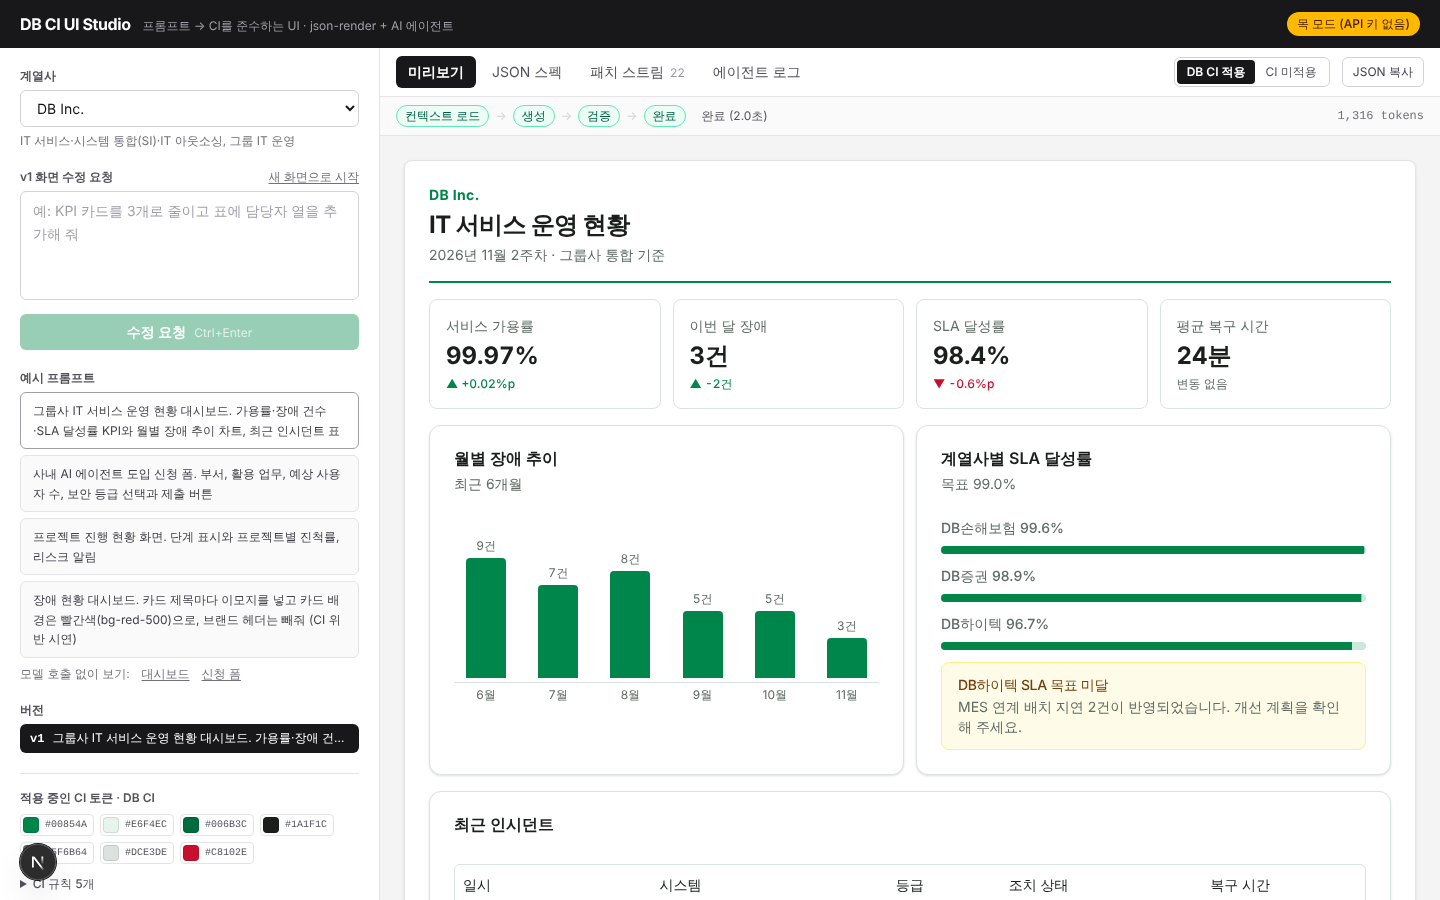
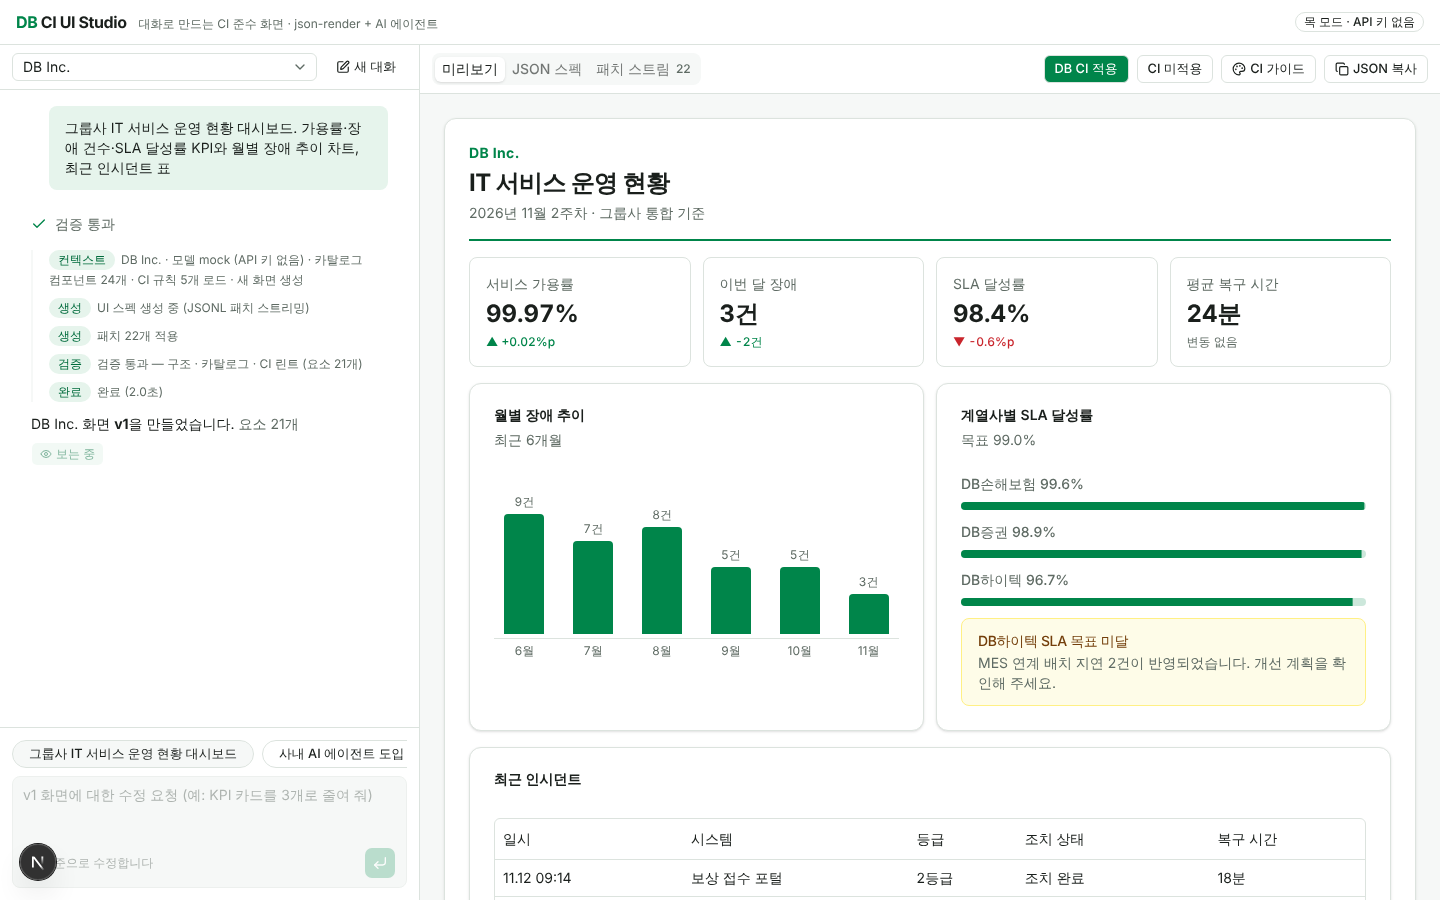
docs(db-ci-ui-generator): README for chat UI, CI palette sources and limits; refresh screenshots
Claude-Session: https://claude.ai/code/session_01Mje24MP8SakCugreJEQ22u

diff --git a/submissions/25512192/db-ci-ui-generator/README.md b/submissions/25512192/db-ci-ui-generator/README.md
@@ -3,7 +3,7 @@
 프롬프트 한 줄을 **DB그룹 CI를 준수하는 화면**으로 바꾸는 AI 에이전트 기반 UI 생성 서비스.
 [json-render](https://json-render.dev) Playground를 벤치마킹했고, 여기에 "CI 자동 반영"과 "스스로 검증·수정하는 에이전트 루프"를 더했다.
 
-- 스택: Next.js 16 (App Router) · json-render 0.22 (`core` / `react` / `shadcn`) · OpenAI Responses API (`gpt-6-luna`) · Tailwind CSS 4
+- 스택: Next.js 16 (App Router) · json-render 0.22 (`core` / `react` / `shadcn`) · OpenAI Responses API (`gpt-6-luna`) · shadcn/ui (radix-nova) · AI Elements · Tailwind CSS 4
 - 용도: DB Inc. 면접 데모
 
 ## 실행
@@ -28,10 +28,21 @@ LLM에게 "DB 색으로 만들어줘"라고 부탁하는 방식은 지켜질 때
 | 층 | 무엇이 | 어떻게 |
 |---|---|---|
 | 1. 카탈로그 | `src/lib/catalog.ts` | 모델은 카탈로그의 24개 컴포넌트만 쓸 수 있고, 컴포넌트에 색상 prop이 없다. 모델이 색을 정할 방법 자체가 없다. |
-| 2. 테마 토큰 | `src/lib/ci/tokens.ts` | 색·모서리·서체는 렌더러가 CSS 변수로 주입한다. 같은 스펙이 토큰만 바꾸면 다른 브랜드가 된다 ("CI 미적용" 토글로 비교). |
+| 2. 테마 토큰 | `src/lib/ci/tokens.ts` | 색·모서리·서체는 렌더러가 CSS 변수로 주입한다. 같은 스펙이 토큰만 바꾸면 다른 브랜드가 된다 ("CI 미적용" 토글로 비교). 서비스 화면(shadcn/ui) 자체도 같은 토큰으로 칠한다. |
 | 3. CI 린트 + 수정 루프 | `src/lib/agent/validate.ts`, `run.ts` | 생성 결과를 규칙으로 기계 검사하고, 위반이 있으면 이슈를 모델에 되먹여 고치게 한다. |
 
-`tokens.ts`가 단일 출처다. 여기 값이 (1) 미리보기 CSS 변수, (2) 시스템 프롬프트의 CI 규칙, (3) 린트 규칙에 동시에 쓰인다.
+`tokens.ts`가 단일 출처다. 여기 값이 (1) 서비스 화면과 미리보기의 CSS 변수, (2) 시스템 프롬프트의 CI 규칙, (3) 린트 규칙에 동시에 쓰인다.
+
+### 적용한 CI 전용색상
+
+| 이름 | 역할 | HEX | RGB | Pantone |
+|---|---|---|---|---|
+| DB Green | 메인 컬러 · 로고마크 → `primary` | `#00854A` | R0 G133 B74 | 7732C |
+| DB Green Gradient | 생명 | `#8DC63F` ~ `#009559` | R141 G198 B63 ~ R0 G149 B89 | 376C ~ 348C |
+| DB Blue Gradient | 물 · 젊음 → 차트 보조색(끝색) | `#14B1E7` ~ `#0061AF` | R20 G177 B231 ~ R0 G97 B175 | 2191C ~ 2133C |
+| DB Red Gradient | 태양 → 차트 보조색(시작색), 오류색(끝색) | `#F47920` ~ `#C9252C` | R244 G121 B32 ~ R201 G37 B44 | 158C ~ 2350C |
+
+출처는 DB Inc. "CI 소개"(dbinc.co.kr), DB손해보험 "색상규정"(idbins.com), DB하이텍 CI 페이지에 게시된 값이다. 본문·구분선·옅은 배경 같은 중립색은 CI 값이 아니라 DB Green에서 파생한 UI용 색이다.
 
 ## 에이전트 루프
 
@@ -55,9 +66,9 @@ plan ─▶ generate ─▶ validate ─┬─ 통과 ─▶ done
 
 1. 계열사 `DB Inc.` → 첫 번째 예시 클릭. 화면이 위에서부터 스트리밍으로 채워지는 것을 보여준다.
 2. 우측 상단 **CI 미적용** 토글 → 같은 스펙이 뉴트럴 테마로 바뀐다. "스펙에는 색이 없고 CI는 토큰에서 온다"를 설명.
-3. **패치 스트림** / **JSON 스펙** 탭 → 모델이 실제로 출력한 것이 코드가 아니라 선언적 JSON임을 보여준다.
-4. 마지막 예시(**CI 위반 시연**) 클릭 → **에이전트 로그** 탭에서 린트가 위반을 잡고, 수정 라운드를 거쳐 통과하는 과정을 보여준다.
-5. 수정 요청 입력("KPI 카드를 3개로 줄여줘") → 패치로 반영, 버전이 v2로 쌓인다.
+3. **패치 스트림** / **JSON 스펙** 탭 → 모델이 실제로 출력한 것이 코드가 아니라 선언적 JSON임을 보여준다. **CI 가이드** 버튼으로 적용 중인 전용색상과 규칙을 보여준다.
+4. 채팅 아래 **CI 위반 시연** 클릭 → 채팅의 에이전트 실행 기록에서 린트가 위반을 잡고, 수정 라운드를 거쳐 통과하는 과정을 보여준다.
+5. 채팅에 수정 요청 입력("KPI 카드를 3개로 줄여줘") → 현재 버전에 패치로 반영, 버전이 쌓이고 채팅의 "이 버전 보기"나 버전 선택으로 되돌아갈 수 있다.
 6. 계열사를 `DB손해보험`으로 바꿔 사고 접수 화면 생성 → 같은 CI, 다른 업무 맥락.
 
 ## 구조
@@ -77,15 +88,18 @@ src/
       events.ts         서버→클라이언트 JSONL 프로토콜
   app/api/generate/route.ts   POST: 에이전트 실행 스트림 / GET: 현재 모드
   hooks/use-agent-stream.ts   스트림 소비 훅 (패치 + 에이전트 이벤트)
-  components/playground.tsx   스튜디오 화면
-  components/preview.tsx      json-render Renderer + 테마 변수 주입
+  components/playground.tsx   스튜디오 화면: 왼쪽 채팅 패널(AI Elements) + 오른쪽 결과(shadcn/ui Tabs 등)
+  components/preview.tsx      json-render Renderer + 테마 변수 주입(미리보기 영역 한정)
+  components/ai-elements/     AI Elements: Conversation, Message, PromptInput, Suggestion, Task
+  components/ui/              shadcn/ui 컴포넌트
 scripts/test-agent.mts        키 없이 도는 에이전트 루프 테스트
 ```
 
 ## 알려진 한계 (면접 전에 확인할 것)
 
-- **CI 색상값은 근사값이다.** `tokens.ts`의 `brand` 블록 hex는 공개 로고의 그린을 눈으로 맞춘 값이다. 공식 CI 매뉴얼의 전용색상을 확보하면 그 블록만 교체하면 된다 (`globals.css`의 `:root` 기본값도 같이).
+- **CI 아카이브 원본과 직접 대조하지 못했다.** `ci.dbgroup.co.kr/ci-manual/color-usage`는 사이트가 자동화된 요청을 차단해 열 수 없었다. 위 색상값은 계열사 공식 사이트에 게시된 값(검색 결과 기준)이며 DB Green은 세 곳이 일치한다. Blue는 계열사마다 표기가 달라(DB메탈·DB하이텍은 단색 R0 G136 B203 / Pantone 2172C) 발표 전에 아카이브를 브라우저로 열어 `tokens.ts`의 `ciPalette`와 대조할 것. 전용서체·색상 사용 규정(배경색 조합, 금지 사례 등)도 아카이브에서 확인하지 못해 반영하지 않았다.
 - **로고는 넣지 않았다.** `BrandHeader`는 계열사명을 텍스트로 표시한다. 공식 로고 파일 사용은 CI 규정 확인 후 `registry.tsx`의 워드마크 자리에 넣는다.
 - **실제 OpenAI 호출 경로는 이 저장소 작업 환경에 키가 없어 실행 검증을 못 했다.** 타입체크·빌드는 통과했고 목 모델로 루프 전체를 검증했다. 키를 넣은 뒤 예시 프롬프트 3~4개를 미리 돌려 볼 것.
+- 목 모드에서 수정 요청을 보내면 고정 샘플을 기존 화면 위에 덧쓰므로 요소 수가 실제보다 많게 나온다(실제 모델 경로와 무관).
 - CI 린트 규칙 4개는 예시 수준이다. "정중한 한국어 문체" 같은 규칙은 프롬프트로만 전달되고 기계 검사는 하지 않는다.
 - 생성 화면의 `submit`/`navigate` 액션은 알림만 띄우는 데모 핸들러다.
